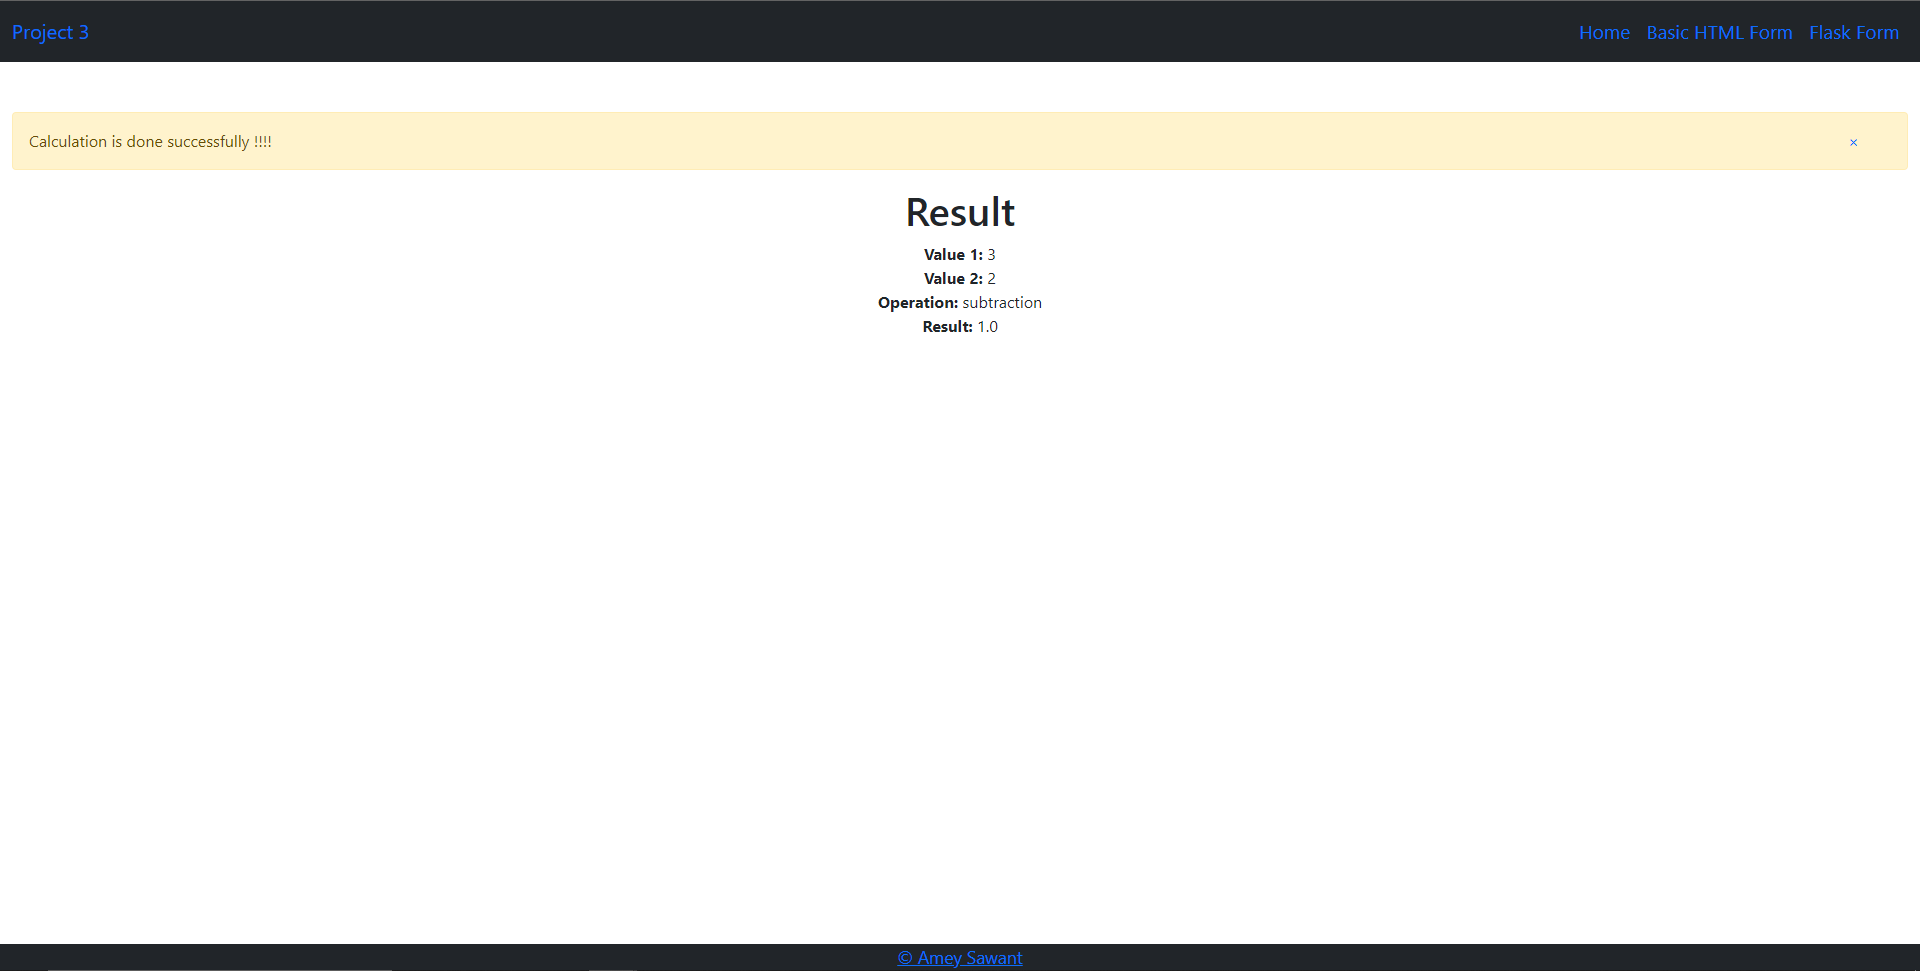
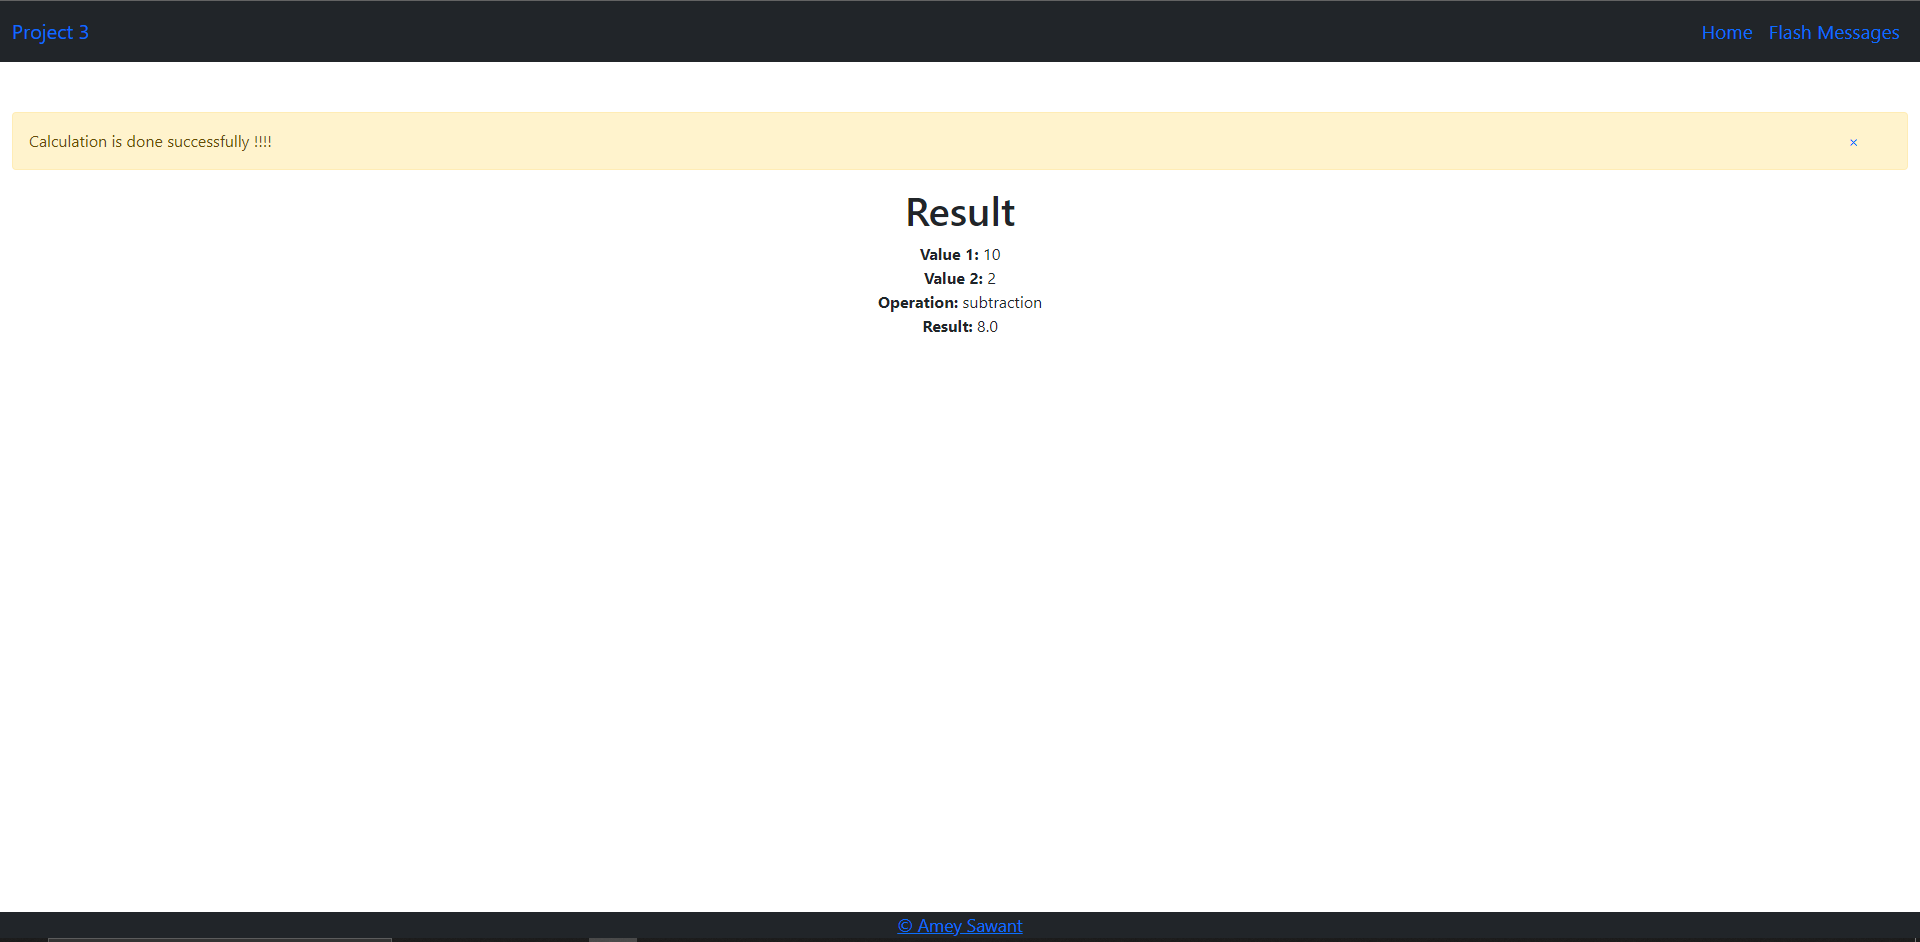
Beautiful Tables Demo Files Updated

diff --git a/app/templates/index.html b/app/templates/index.html
@@ -3,10 +3,11 @@
 
 {% block content %}
     <h1>Index</h1>
-    <p class="important">
-      Welcome to my Homepage.
-    </p>
+    <h4 class="important">
+      Welcome to my Homepage.<br/><br/>
+        This project is made using HTML, CSS, Python, Flask, Jinja.<br/><br/>
+        Check <a href="/basicform">Flash Messages</a> page here.
+    </h4>
 
-<a href="/good/1/2">One Plus Two Good</a>
-<br><a href="/bad/1/2">One Plus Two Bad</a>
+<img src="https://miro.medium.com/max/640/1*XzIRJGujfqAiOV2EIQgR_Q.png">
 {% endblock %}

diff --git a/app/templates/base.html b/app/templates/base.html
@@ -28,10 +28,7 @@
                     <a class="nav-link" href="/">Home</a>
                 </li>
                 <li class="nav-item">
-                    <a class="nav-link" href="/basicform">Basic HTML Form</a>
-                </li>
-                <li class="nav-item">
-                    <a class="nav-link" href="#">Flask Form</a>
+                    <a class="nav-link" href="/basicform">Flash Messages</a>
                 </li>
             </ul>
         </div>

diff --git a/app/app.py b/app/app.py
@@ -1,74 +1,3 @@
-# """A simple flask web app"""
-# from flask import Flask, request, flash
-# from flask import render_template
-# from calculator.main import Calculator
-#
-# app = Flask(__name__)
-#
-# app.secret_key = b'_5#y2L"F4Q8z\n\xec]/'
-#
-#
-# @app.route("/")
-# def index():
-#     """index  Route Response"""
-#     return render_template('index.html')
-#
-#
-# @app.route("/basicform", methods=['GET', 'POST'])
-# def basicform():
-#     """Post Request Handling"""
-#
-#     if request.method == 'POST':
-#         # get the values out of the form
-#         value1 = request.form['value1']
-#         value2 = request.form['value2']
-#         operation = request.form['operation']
-#
-#         # make the tuple
-#         my_tuple = (value1, value2)
-#
-#         # this will call the correct operation
-#         getattr(Calculator, operation)(my_tuple)
-#         result = str(Calculator.get_last_result_value())
-#         return render_template('result.html', value1=value1, value2=value2, operation=operation, result=result)
-#     # Displays the form because if it isn't a post it is a get request
-#     else:
-#         return render_template('/basicform.html')
-#
-#
-# @app.route("/basicform", methods=['GET', 'POST'])
-# def get_flashed_messages():
-#     # validate
-#     flash("Flash Test !!!")
-#
-#     # if request.form['value1'] == '':
-#     #     flash("Value1 cannot be empty !!!")
-#     # elif request.form['value2'] == '':
-#     #     flash("Value2 cannot be empty !!!")
-#     # else:
-#     #     flash("Performing calculation !!!")
-#
-#     return render_template('/basicform.html')
-#
-#
-#
-# @app.route("/bad/<value1>/<value2>")
-# def bad_calc(value1, value2):
-#     """bad calc Route Response"""
-#     result = value1 + value2
-#     response = "The result of the calculation is: " + result + '<a href="/"> back</a>'
-#     return response
-#
-#
-# @app.route("/good/<float:value1>/<float:value2>")
-# def good_calc(value1, value2):
-#     """good calc Route Response"""
-#     my_tuple = (value1, value2)
-#     ans = Calculator.addition(my_tuple)
-#     response = "The result of the calculation is: " + str(ans) + '<a href="/"> back</a>'
-#     return response
-#
-
 """A simple flask web app"""
 from flask import Flask
 from app.controllers.index_controller import IndexController

diff --git a/readme.md b/readme.md
@@ -1,5 +1,8 @@
 # Flash Demo
 
+### Home Page
+![img.png](img.png)
+
 ### Both input fields are empty
 ![img_1.png](img_1.png)
 
@@ -9,14 +12,14 @@
 ### Input field 2 is empty
 ![img_3.png](img_3.png)
 
-### When both input fields are filled and Addition operation
+### When both input fields are filled and on Addition operation
 ![img_4.png](img_4.png)
 
-### When both input fields are filled and Subtraction operation
+### When both input fields are filled and on Subtraction operation
 ![img_5.png](img_5.png)
 
-### When both input fields are filled and Multiplication operation
+### When both input fields are filled and on Multiplication operation
 ![img_6.png](img_6.png)
 
-### When both input fields are filled and Division operation
+### When both input fields are filled and on Division operation
 ![img_7.png](img_7.png)
